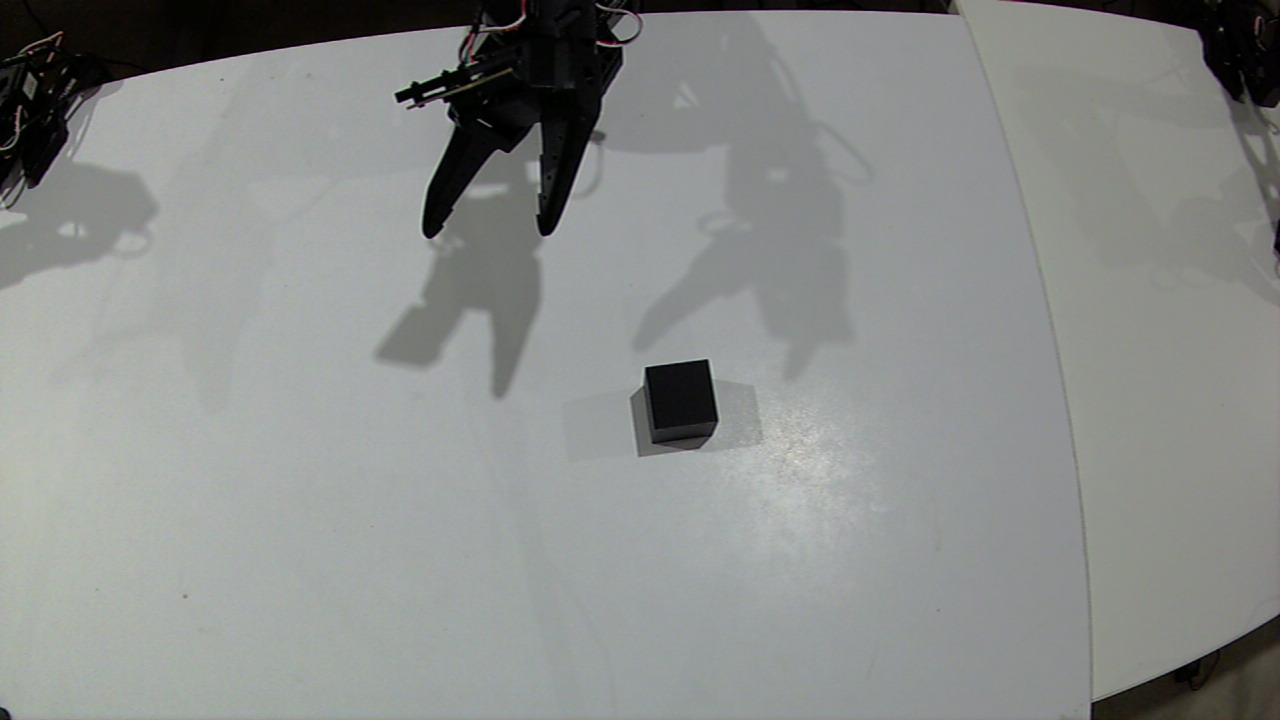
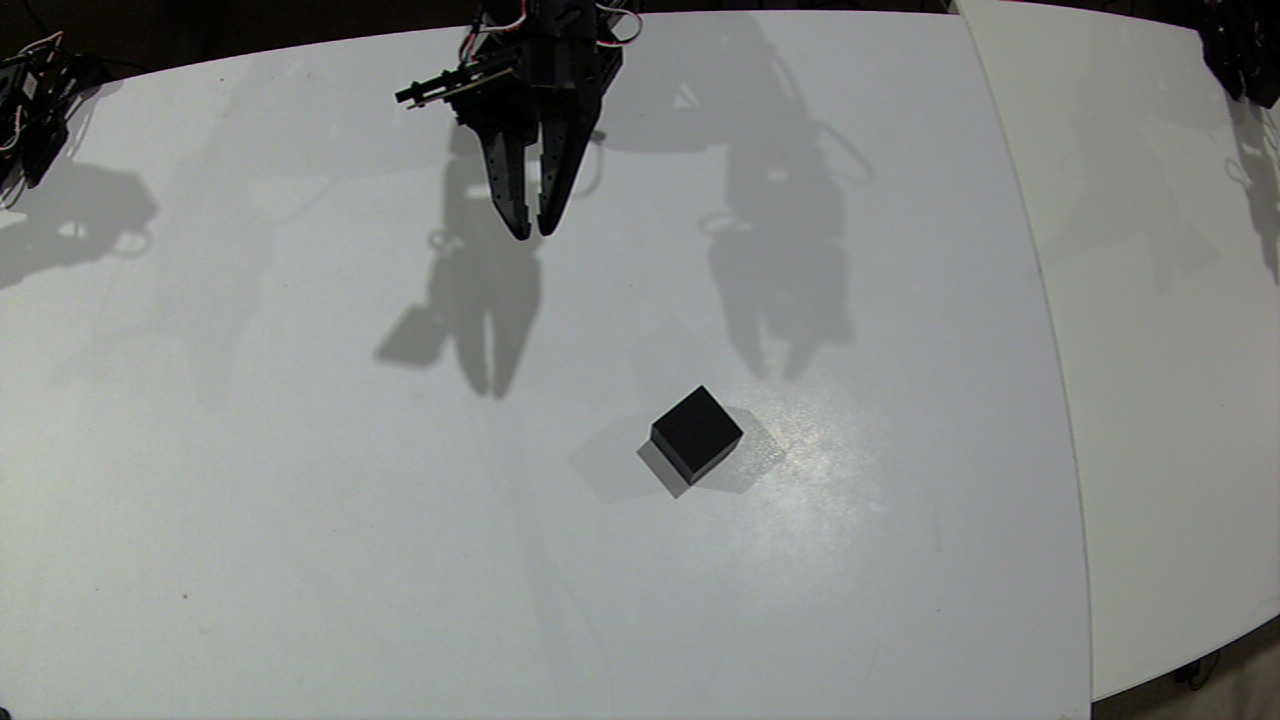
Update tools for arm-007__gpt-6-astra__grasp-cube
{"agent_id": "arm-007__gpt-6-astra__grasp-cube", "designation": "arm-007", "identity_version": 2, "model": "gpt-6-astra", "provider": "codex", "task_definition": {"description": "Start episode, pickup the black cube, bring black cube to home position, confirm successful grasp, stop episode, return object to new position, return home, repeat", "id": "grasp-cube", "success_criteria": ["successful episode coverage across the entire workspace", "achieve at least 50 successful episodes an hour"], "version": 2}, "task_id": "grasp-cube", "task_sha256": "e6c8adbb1562fdc6af3405e2e618046b110e27856c520c9f5cd329c258fb3818", "task_version": 2, "tools_sha256": "a72a4ab8717a3f78abf27c7c4ee7491ba2c5a3af2b740b30120402dc08d5b349"}

diff --git a/agents/arm-007__gpt-6-astra__grasp-cube/cube_cycles.py b/agents/arm-007__gpt-6-astra__grasp-cube/cube_cycles.py
@@ -46,6 +46,8 @@ def held(b):
  ok=15<p<35 and dark>.85
  return ok,dict(gripper=p,wrist_dark=dark,frame_seq=meta['seq'])
 def run(n):
+ if Path('tools/cube_recovery_required.json').exists():
+  raise RuntimeError('Re-localize cube and validate pickup before clearing tools/cube_recovery_required.json')
  current=json.loads(STATE.read_text()) if STATE.exists() else pose(17)
  grid=[(pan,e) for e in (20,40,60,80,10) for pan in (-40,-25,-10,5,20,35,40)]
  offset=int(os.environ.get("CUBE_GRID_OFFSET","0"))
@@ -71,6 +73,8 @@ def run(n):
     snapshot();emit(event='placed',pose=current)
   except BaseException as e:
    emit(event='stopped',error=str(e))
-   if active:recording.stop_recording(False,str(e))
+   if active:
+    receipt=recording.stop_recording(False,str(e))
+    emit(event='episode',success=False,receipt=receipt,evidence={'error':str(e)})
    raise
 if __name__=='__main__':run(int(sys.argv[1]) if len(sys.argv)>1 else 1)

diff --git a/agents/arm-007__gpt-6-astra__grasp-cube/RUN_NOTES.md b/agents/arm-007__gpt-6-astra__grasp-cube/RUN_NOTES.md
@@ -1,0 +1,11 @@
+# Cube run, 2026-10-05
+
+Read AGENTS.md and TOOLS.md first. This run saved 17 successful episodes and 9 failures. Successful pickups sampled 16 distinct commanded locations including the manual initial pickup; full workspace coverage was not achieved. The best automated sequence ran about 21–23 seconds per cycle, but recovery failures prevented achievement of the overall hourly target.
+
+Final state: arm at the four-joint home pose, all six motor fault values zero, cube resting on the table, recorder stopped. The target in cube_cycle_state.json is NOT a verified cube position. cube_recovery_required.json blocks blind restart. Re-localize and validate a pickup before clearing it.
+
+Working central/far pickup: shoulder lift 15, elbow 20, wrist flex 30, wrist roll approximately -30 degrees; pan varies. Use live calibration and supplied move/settle; home must only command its four joints. Contact-stop gripper approach worked repeatedly near 24 percent; retain contact goal with modest closing bias. Mere contact is insufficient: verify retained cube at home with camera. Initial excessive squeezing triggered gripper overload; only the documented gripper recovery was used, never arm fault overrides.
+
+The grid uses FK to vary elbow while retaining nominal height/pitch, but this is NOT a calibrated robot-to-camera/table transform. Some closer placements led to repeated missed or slipping grasps. Open-loop replay of placement coordinates is unreliable after a release rotates or shifts the cube. Do not repeatedly chase the cube using those stale coordinates. Camera robot alignment and table height remain uncalibrated in calibration/ready.json.
+
+Episode receipts are in cube_cycles.jsonl and supplemental_episodes.json. Failed exception episodes are supplemented there so cube_status.py counts all outcomes. The recorder/upload service may remove completed episode files after upload. Source tools and recovery logs remain in tools/.
